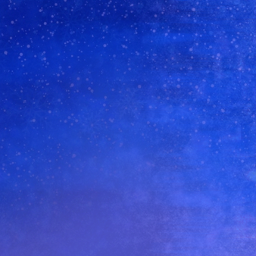
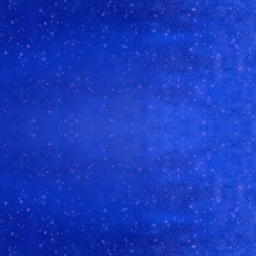
fix

diff --git a/Calamity/files.js b/Calamity/files.js
@@ -1,5 +1,5 @@
 {
 	"patch.js": 2056392651,
-	"th11/background/stage01/stage01a.png": 485342242,
+	"th11/background/stage01/stage01a.png": 60659947,
 	"th11/background/stage01/stage01b.png": 785473982
 }
